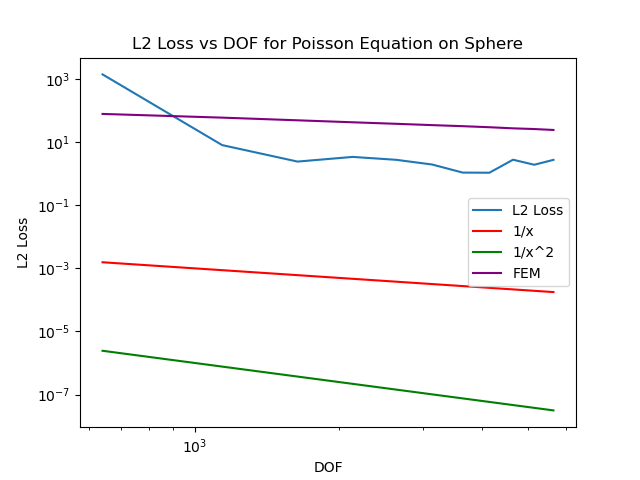
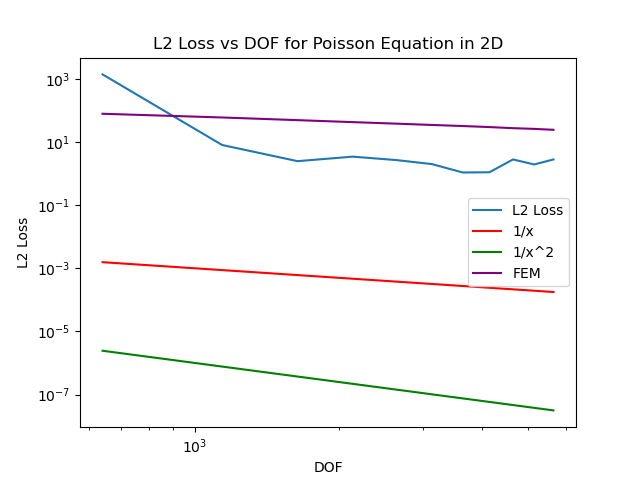
Fixed Plot title

diff --git a/test_autodiff_2d.py b/test_autodiff_2d.py
@@ -265,7 +265,7 @@ def plot():
 
     plt.xlabel("DOF")
     plt.ylabel("L2 Loss")
-    plt.title("L2 Loss vs DOF for Poisson Equation on Sphere")
+    plt.title("L2 Loss vs DOF for Poisson Equation in 2D")
     plt.legend()
     plt.savefig("convergence.png")
 
